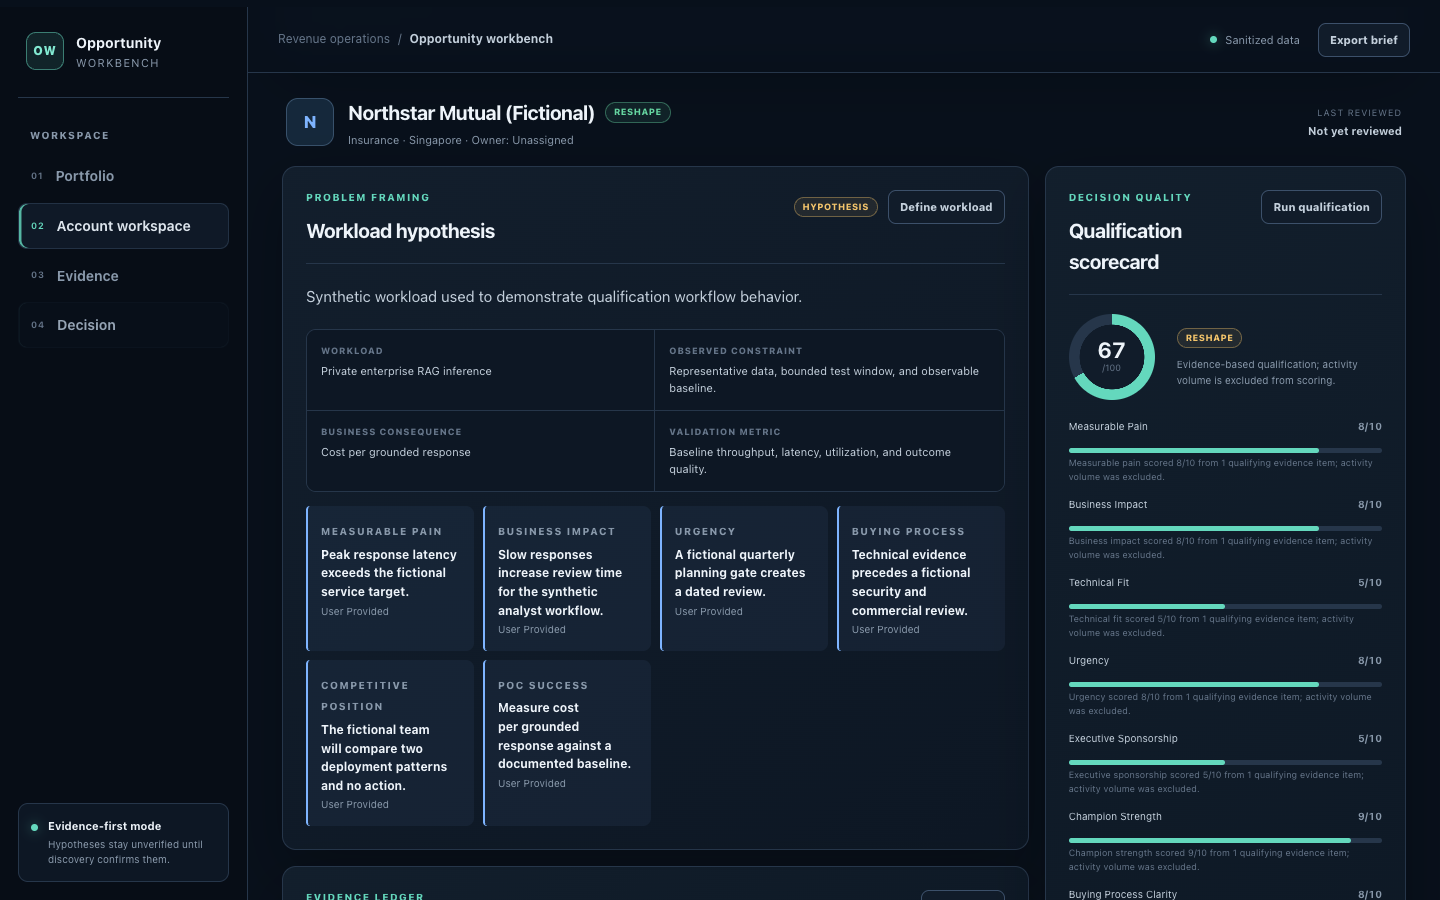
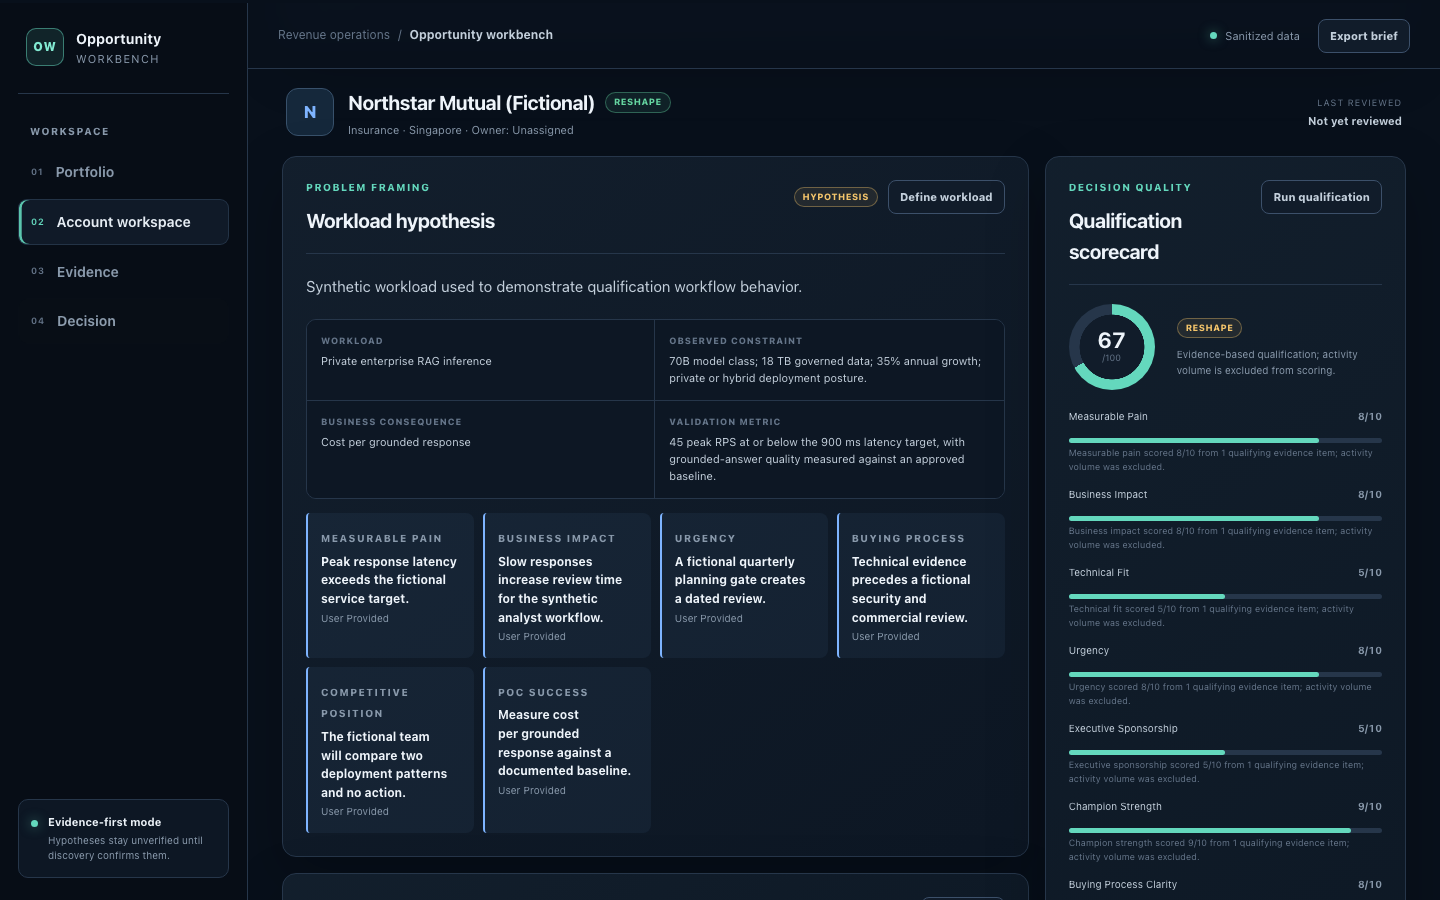
docs: align Northstar discovery case

diff --git a/app/demo.py b/app/demo.py
@@ -21,6 +21,18 @@ _SCENARIOS = (
         "pain": "Peak response latency exceeds the fictional service target.",
         "impact": "Slow responses increase review time for the synthetic analyst workflow.",
         "metric": "Cost per grounded response",
+        "success_metrics": (
+            "45 peak RPS at or below the 900 ms latency target, with grounded-answer quality "
+            "measured against an approved baseline."
+        ),
+        "technical_requirements": (
+            "70B model class; 18 TB governed data; 35% annual growth; private or hybrid "
+            "deployment posture."
+        ),
+        "workload_notes": (
+            "Fictional case northstar-private-rag-v1; all requirements remain hypotheses "
+            "until benchmark validation."
+        ),
     },
     {
         "name": "Bluehaven Compute (Fictional)",
@@ -98,13 +110,17 @@ def seed_demo_data(repository: OpportunityRepository) -> None:
             workload_type=scenario["workload_type"],
             description="Synthetic workload used to demonstrate qualification workflow behavior.",
             business_metric=scenario["metric"],
-            success_metrics="Baseline throughput, latency, utilization, and outcome quality.",
-            technical_requirements=(
-                "Representative data, bounded test window, and observable baseline."
+            success_metrics=scenario.get(
+                "success_metrics",
+                "Baseline throughput, latency, utilization, and outcome quality.",
+            ),
+            technical_requirements=scenario.get(
+                "technical_requirements",
+                "Representative data, bounded test window, and observable baseline.",
             ),
             confidence=0.75,
             status="hypothesis",
-            notes="Requires benchmark validation.",
+            notes=scenario.get("workload_notes", "Requires benchmark validation."),
         )
         for name, title, role, relationship_status in (
             ("Alex Morgan", "AI Platform Lead", "champion", "engaged"),

diff --git a/tests/test_workflow_api.py b/tests/test_workflow_api.py
@@ -142,11 +142,27 @@ def test_demo_seed_contains_three_clearly_fictional_accounts(tmp_path) -> None:
     database_url = f"sqlite:///{tmp_path / 'demo.db'}"
     with TestClient(create_app(database_url=database_url, seed_demo=True)) as demo_client:
         response = demo_client.get("/api/accounts")
+        accounts = response.json()
+        northstar = next(account for account in accounts if "Northstar" in account["name"])
+        handoff_response = demo_client.get(f"/api/accounts/{northstar['id']}/handoff")
 
     assert response.status_code == 200
-    accounts = response.json()
+    assert handoff_response.status_code == 200
     assert len(accounts) >= 3
     assert all(account["fictional"] is True for account in accounts)
+    handoff = handoff_response.json()
+    assert handoff["workload"]["success_metrics"] == (
+        "45 peak RPS at or below the 900 ms latency target, with grounded-answer quality "
+        "measured against an approved baseline."
+    )
+    assert handoff["workload"]["technical_requirements"] == (
+        "70B model class; 18 TB governed data; 35% annual growth; private or hybrid "
+        "deployment posture."
+    )
+    assert handoff["workload"]["notes"] == (
+        "Fictional case northstar-private-rag-v1; all requirements remain hypotheses until "
+        "benchmark validation."
+    )
 
 
 def test_rendered_interface_and_error_states(client: TestClient) -> None:

diff --git a/README.md b/README.md
@@ -86,6 +86,8 @@ The core workflow is offline and deterministic. The web layer does not decide qu
 
 The repository ships with three clearly labeled fictional scenarios. Runtime records are stored locally in SQLite and are excluded from version control.
 
+The Northstar demo is the discovery-stage view of the portfolio's shared private-RAG case: a 70B model class, 45 peak RPS, a 900 ms latency target, 18 TB of governed data, 35% annual growth, and a private or hybrid deployment posture. These remain workload hypotheses until benchmark evidence supports them.
+
 - No customer names, confidential notes, production credentials, pricing, or revenue data are included.
 - A signal's observation and provenance are stored separately from interpretation.
 - Scores are deterministic; optional narrative text cannot alter score inputs, caps, or recommendations.